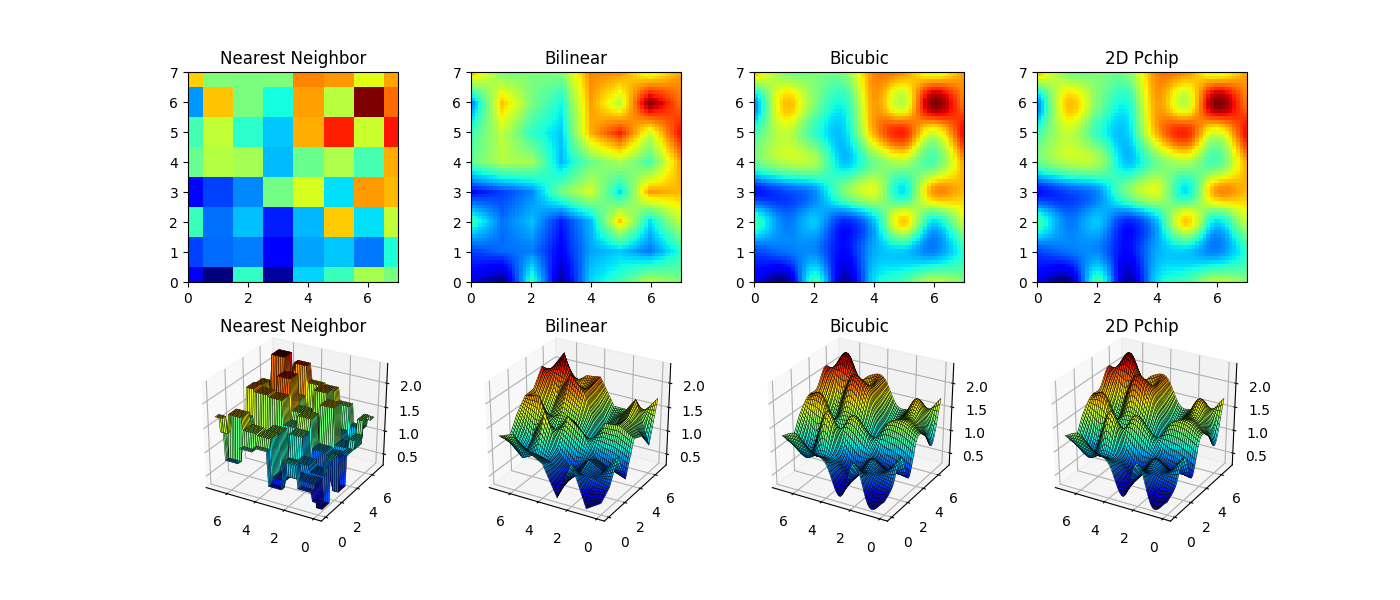
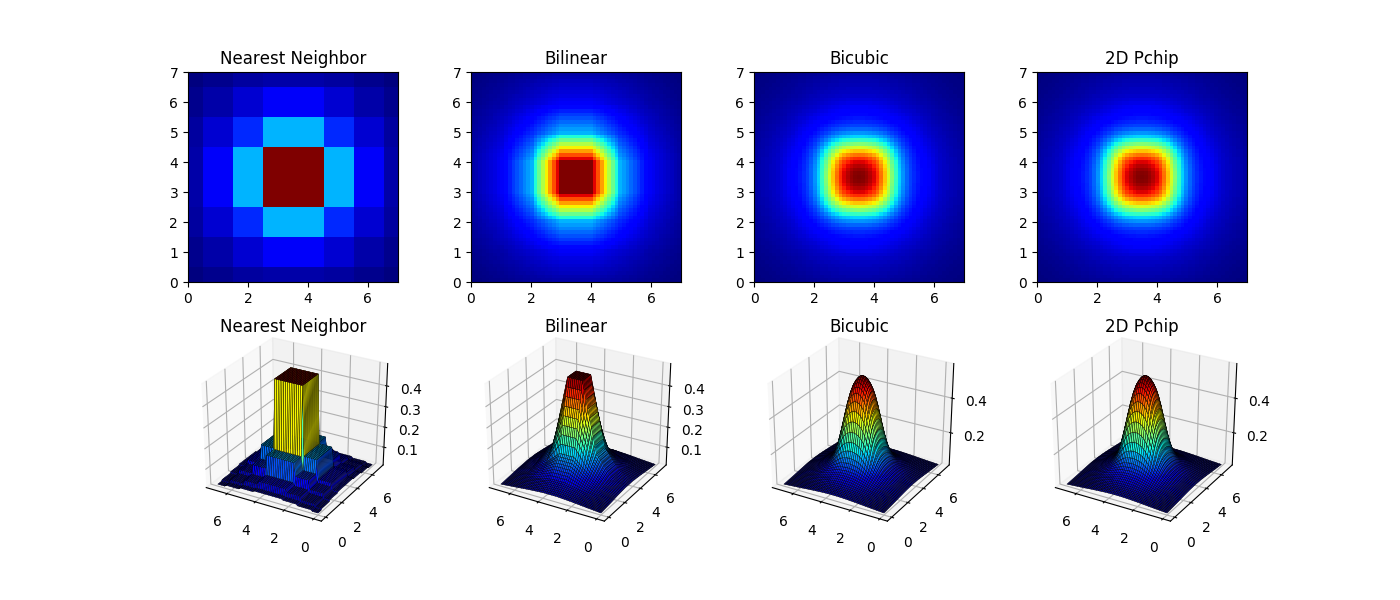
Update on examples of Runge Functions

diff --git a/src/main_2d.py b/src/main_2d.py
@@ -2,6 +2,7 @@ import bicubic_spline
 import cubic_conv_interpolation
 import primative_interpolation
 import piecewise_cubic_hermite_spline
+import general_arithmetic
 import matplotlib.pyplot as plt
 from matplotlib import cm
 from mpl_toolkits.mplot3d import Axes3D
@@ -58,12 +59,13 @@ def general_comparison():
     rand_mat = np.random.random((imx, imy))
     rand_mat_slope = np.random.random((imx, imy)) + np.concatenate([np.expand_dims(np.linspace(i, 0.8 + i, imx), axis=1) for i in np.linspace(0, 0.8, imy)], axis=1)
     checker_board = np.array(([0,1]*(int(imx/2))+[1,0]*(int(imx/2)))*(int(imx/2))).reshape((imx,imx))
+    runge_2d = general_arithmetic.runge_2d(imx, imy)
     
     imx, imy = 8, 8
     square_peak = np.zeros((imx, imy))
     square_peak[2:-2,2:-2] = np.ones((imx - 4, imy - 4))
     
-    mat = rand_mat_slope
+    mat = runge_2d
     print(mat)
 
     

diff --git a/src/main_1d.py b/src/main_1d.py
@@ -39,12 +39,14 @@ def error_for_cubic():
         err_polynomial.append(err)
         err, d = error_analysis(start, end, test_sin_func, h, 1000)
         err_sin.append(err)
-        
+    
+    plt.figure(figsize=(10,4))
+    plt.title("Convergence Rate for Cubic Spline")
     plt.loglog(h_ls, err_runge,
                h_ls, err_polynomial,
                h_ls, err_sin,
                h_ls, [x**4 for x in h_ls], 'k-.')
-    plt.legend(["Runge Function", "Polynomial", "Sin", "h^4"], loc="upper left")
+    plt.legend(["Runge Function", "Order-4 Polynomial", "Sin", "h^4 (baseline)"], loc="upper left")
     plt.ylabel("Err")
     plt.xlabel("h")
     # plt.loglog(h_ls, [x**4 for x in h_ls], c="red")

diff --git a/src/general_arithmetic.py b/src/general_arithmetic.py
@@ -67,3 +67,15 @@ def array_padding_1D(L, blank=False):
     X[0], X[-1] = 2 * X[1] - X[2], 2 * X[-2] - X[-3]
 
     return X
+
+def runge_2d(x_range, y_range):
+
+    cx, cy = (x_range - 1) / 2, (y_range - 1) / 2
+    norm = min(cx, cy)
+    ret = np.zeros([x_range, y_range])
+    for x in range(x_range):
+        for y in range(y_range):
+            h = np.sqrt((x - cx)**2 + (y - cy)**2)/norm
+            ret[x][y] = 1 / (1 + 25 * h**2)
+    return ret
+    

diff --git a/README.md b/README.md
@@ -22,10 +22,15 @@ Update the main plotting program for 2D demos
 
 Finished 1D cubic's convergence test, working on monotonic cubic (19/04/11)
 
+---
+Convergence test for natural cubic spline
+![Image0](https://i.ibb.co/h7yr6JJ/base.png)
+
+2D Interpolation for random matrix
 ![Image1](https://i.ibb.co/MsSK0WM/1.png)
 
-![Image2](https://i.ibb.co/WgdTgD6/2.png)
+2D Interpolation for a 2D Runge Function
+![Image2](https://i.ibb.co/3MzrJZQ/Figure-1.png)
 
 ---
 
-![Image2](https://upload.wikimedia.org/wikipedia/commons/9/90/Comparison_of_1D_and_2D_interpolation.svg)
